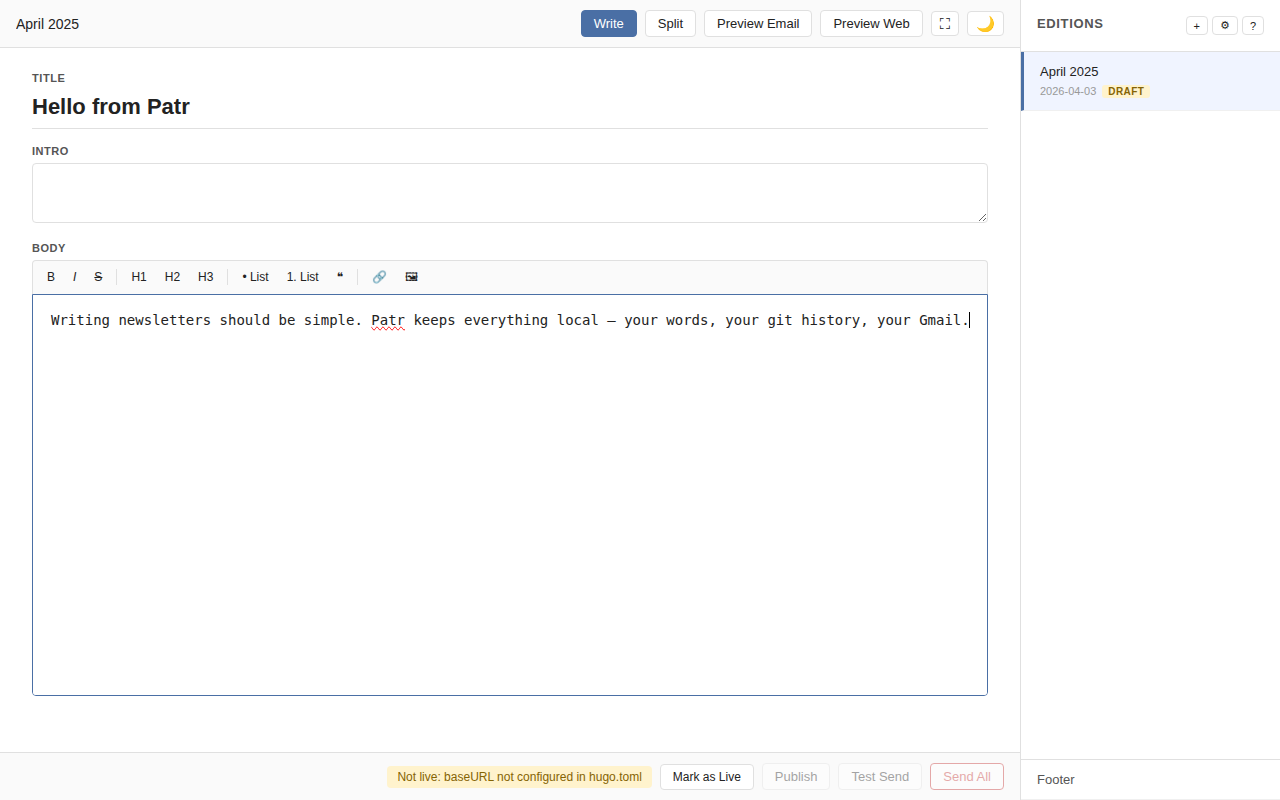
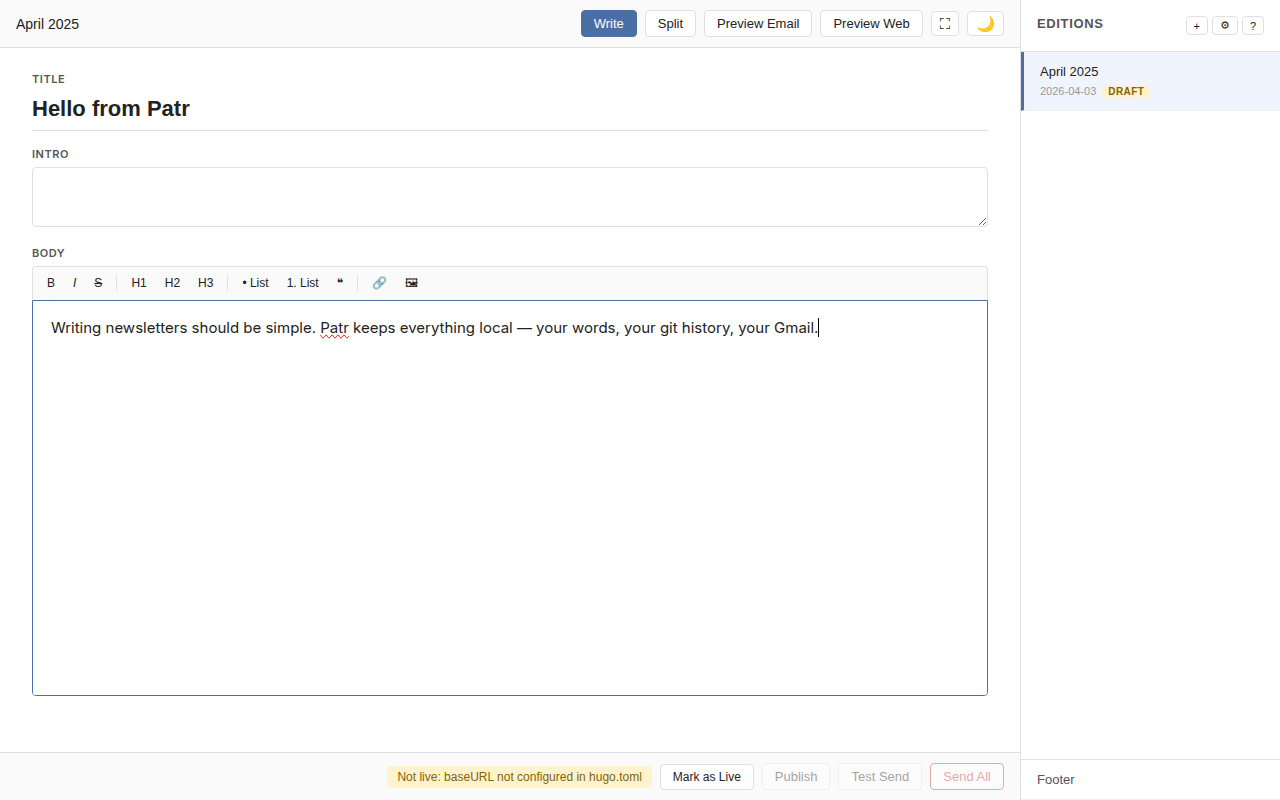
Use Inter font from Google Fonts for the editor

Changed region(s): [[0.0312, 0.2812, 0.75, 0.4375], [0.0312, 0.0938, 0.1562, 0.2188]]

diff --git a/src/patr/static/dist/main.css b/src/patr/static/dist/main.css
@@ -1,1 +1,1 @@
-*{box-sizing:border-box;margin:0;padding:0}:root{--bg:#f5f5f5;--surface:#fff;--border:#e0e0e0;--border-subtle:#f0f0f0;--text:#222;--text-secondary:#555;--text-muted:#999;--text-placeholder:#aaa;--toolbar-bg:#fafafa;--btn-bg:#fff;--btn-hover:#f0f0f0;--active-bg:#f0f4ff;--active-accent:#4a6fa5;--modal-overlay:#0006}body.dark{--bg:#1a1a1a;--surface:#242424;--border:#383838;--border-subtle:#2e2e2e;--text:#e8e8e8;--text-secondary:#aaa;--text-muted:#666;--text-placeholder:#555;--toolbar-bg:#1e1e1e;--btn-bg:#2e2e2e;--btn-hover:#383838;--active-bg:#1e2a3a;--active-accent:#6b93c9;--modal-overlay:#0009}body,#root{flex-direction:column;height:100vh;display:flex}body{background:var(--bg);color:var(--text);flex-direction:column;height:100vh;font-family:-apple-system,BlinkMacSystemFont,Segoe UI,sans-serif;font-size:14px;display:flex}.layout{flex:1;display:flex;overflow:hidden}.sidebar-resize-handle{cursor:col-resize;z-index:10;width:5px;position:absolute;top:0;bottom:0;left:0}.sidebar-resize-handle:hover,.sidebar-resize-handle:active{background:var(--border)}.sidebar{background:var(--surface);border-left:1px solid var(--border);flex-direction:column;order:1;width:260px;min-width:260px;display:flex;position:relative;overflow:hidden}.auth-bar{border-bottom:1px solid var(--border);align-items:center;gap:8px;padding:10px 16px;font-size:12px;display:flex}.auth-dot{border-radius:50%;flex-shrink:0;width:8px;height:8px}.auth-dot.ok{background:#4caf80}.auth-dot.err{background:#f08080}.auth-label{color:var(--text-secondary);flex:1}.sidebar-header{border-bottom:1px solid var(--border);color:var(--text-secondary);text-transform:uppercase;letter-spacing:.05em;padding:16px;font-size:13px;font-weight:600}.edition-list{flex:1;overflow-y:auto}.edition-item{cursor:pointer;border-bottom:1px solid #f0f0f0;flex-direction:column;gap:4px;padding:12px 16px;display:flex}.edition-item:hover{background:var(--btn-hover)}.edition-item.active{background:var(--active-bg);border-left:3px solid var(--active-accent)}.footer-item{border-top:1px solid var(--border);color:var(--text-secondary);margin-top:auto;font-size:13px}.edition-title{font-size:13px;font-weight:500;line-height:1.3}.edition-meta{color:var(--text-muted);align-items:center;gap:6px;font-size:11px;display:flex}.badge{text-transform:uppercase;letter-spacing:.04em;border-radius:3px;padding:1px 6px;font-size:10px;font-weight:600}.badge-draft{color:#856404;background:#fff3cd}.badge-live{color:#0a5c36;background:#d1e7dd}body.dark .badge-draft{color:#f0c040;background:#3a2e00}body.dark .badge-live{color:#4caf80;background:#0a2e1a}.main{background:var(--surface);flex-direction:column;flex:1;display:flex;overflow:hidden}.toolbar{border-bottom:1px solid var(--border);background:var(--toolbar-bg);flex-shrink:0;align-items:center;gap:8px;padding:10px 16px;display:flex}.toolbar-title{white-space:nowrap;text-overflow:ellipsis;color:var(--text);flex:1;font-size:14px;font-weight:500;overflow:hidden}.toolbar-title.empty{color:var(--text-placeholder);font-weight:400}.btn{border:1px solid var(--border);background:var(--btn-bg);color:var(--text);cursor:pointer;white-space:nowrap;border-radius:4px;padding:5px 12px;font-size:13px}.btn:hover:not(:disabled){background:var(--btn-hover)}.btn:disabled{opacity:.4;cursor:not-allowed}.btn-toggle.active{background:var(--active-accent);border-color:var(--active-accent);color:#fff}.btn-draft-toggle{font-size:12px}.btn-danger{color:#c53030;border-color:#c53030}.btn-danger:hover:not(:disabled){background:#fff5f5}body.dark .btn-danger:hover:not(:disabled){background:#2a0a0a}.btn-primary{background:var(--active-accent);border-color:var(--active-accent);color:#fff}.btn-primary:hover:not(:disabled){background:#3d5f8f}.preview-frame{background:#fff;border:none;flex:1}.content-area{flex:1;min-height:0;display:flex;overflow:hidden}.editor-pane{flex-direction:column;flex:1;display:flex;overflow:hidden}.editor-pane.bordered{border-right:1px solid var(--border)}.split-preview,.full-preview{flex-direction:column;flex:1;display:flex;overflow:hidden}.split-preview-bar{border-bottom:1px solid var(--border);background:var(--toolbar-bg);flex-shrink:0;align-items:center;gap:4px;padding:6px 10px;display:flex}.empty-state{color:var(--text-placeholder);flex:1;justify-content:center;align-items:center;font-size:15px;display:flex}.action-bar{border-top:1px solid var(--border);background:var(--toolbar-bg);flex-shrink:0;align-items:center;gap:8px;padding:10px 16px;display:flex}.action-bar .spacer{flex:1}.status-msg{border-radius:4px;padding:4px 10px;font-size:12px}.status-msg.ok{color:#0a5c36;background:#d1e7dd}.status-msg.warn{color:#856404;background:#fff3cd}.status-msg.err{color:#842029;background:#f8d7da}.status-msg.info{color:#1a3a6b;background:#e8f0fe}body.dark .status-msg.ok{color:#4caf80;background:#0a2e1a}body.dark .status-msg.warn{color:#f0c040;background:#3a2e00}body.dark .status-msg.err{color:#f08080;background:#2a0a0a}body.dark .status-msg.info{color:#80aaee;background:#0a1a3a}.modal-overlay{z-index:100;background:#0006;justify-content:center;align-items:center;display:none;position:fixed;inset:0}.modal-overlay.visible{display:flex}.modal{background:var(--surface);border-radius:8px;width:90%;max-width:380px;padding:28px;box-shadow:0 8px 32px #00000026}.modal h3{margin-bottom:10px;font-size:16px}.modal p{color:var(--text-secondary);margin-bottom:20px;font-size:13px;line-height:1.5}.modal-actions{justify-content:flex-end;gap:8px;display:flex}.btn-theme{border-radius:4px;padding:4px 8px;font-size:15px;line-height:1}.help-modal{flex-direction:column;width:95%;max-width:640px;max-height:80vh;padding:0;display:flex}.help-modal-header{border-bottom:1px solid var(--border);flex-shrink:0;justify-content:space-between;align-items:center;padding:16px 20px;display:flex}.help-modal-header h3{margin:0}.help-modal-body{color:var(--text);padding:20px 24px;font-size:13px;line-height:1.6;overflow-y:auto}.help-modal-body h2{margin:1.2em 0 .4em;font-size:15px}.help-modal-body h3{margin:1em 0 .3em;font-size:13px}.help-modal-body ul,.help-modal-body ol{margin:.4em 0;padding-left:1.4em}.help-modal-body li{margin:.2em 0}.help-modal-body p{margin:.5em 0}.help-modal-body code{background:var(--bg);border-radius:3px;padding:1px 4px;font-size:.9em}.help-modal-body pre{background:var(--bg);border-radius:4px;margin:.5em 0;padding:10px 12px;overflow-x:auto}.help-modal-body pre code{background:0 0;padding:0}.help-modal-body table{border-collapse:collapse;width:100%;margin:.5em 0}.help-modal-body th,.help-modal-body td{border:1px solid var(--border);text-align:left;padding:6px 10px;font-size:12px}.help-modal-body th{background:var(--toolbar-bg);font-weight:600}.help-modal-body blockquote{border-left:3px solid var(--border);color:var(--text-secondary);margin:.5em 0;padding-left:12px}.editor-panel{background:var(--surface);flex-direction:column;flex:1;gap:16px;padding:24px 32px;display:flex;overflow:hidden}.editor-field label{text-transform:uppercase;letter-spacing:.05em;color:var(--text-secondary);margin-bottom:6px;font-size:11px;font-weight:600;display:block}.editor-title-input{border:none;border-bottom:1px solid var(--border);width:100%;color:var(--text);box-sizing:border-box;background:0 0;outline:none;padding:4px 0 8px;font-size:22px;font-weight:600}.editor-title-input:focus{border-bottom-color:var(--active-accent)}.editor-intro-input{border:1px solid var(--border);width:100%;color:var(--text);resize:vertical;box-sizing:border-box;background:0 0;border-radius:4px;outline:none;min-height:60px;padding:8px;font-family:inherit;font-size:14px;font-style:italic;line-height:1.5}.editor-intro-input:focus{border-color:var(--active-accent)}.editor-toolbar{border:1px solid var(--border);background:var(--toolbar-bg);border-bottom:none;border-radius:4px 4px 0 0;flex-wrap:wrap;align-items:center;gap:2px;padding:4px 6px;display:flex}.editor-toolbar-btn{color:var(--text);cursor:pointer;background:0 0;border:1px solid #0000;border-radius:3px;padding:3px 7px;font-size:12px;font-weight:500;line-height:1.4}.editor-toolbar-btn:hover{background:var(--btn-hover);border-color:var(--border)}.editor-toolbar-sep{background:var(--border);flex-shrink:0;width:1px;height:16px;margin:0 4px}.editor-body-wrap{border:1px solid var(--border);border-radius:0 0 4px 4px;flex-direction:column;flex:1;display:flex;overflow-y:auto}.editor-body-wrap:focus-within{border-color:var(--active-accent)}.editor-body-wrap .cm-editor{height:100%;font-family:inherit;line-height:1.7}.editor-body-wrap .cm-editor.cm-focused{outline:none}.editor-body-wrap .cm-scroller{min-height:200px;padding:12px}.editor-body-wrap .cm-content{font-size:14px}.editor-save-status{color:var(--text-muted);text-align:right;opacity:0;min-height:16px;font-size:11px;transition:opacity .2s}.editor-save-status.visible{opacity:1}
+*{box-sizing:border-box;margin:0;padding:0}:root{--bg:#f5f5f5;--surface:#fff;--border:#e0e0e0;--border-subtle:#f0f0f0;--text:#222;--text-secondary:#555;--text-muted:#999;--text-placeholder:#aaa;--toolbar-bg:#fafafa;--btn-bg:#fff;--btn-hover:#f0f0f0;--active-bg:#f0f4ff;--active-accent:#4a6fa5;--modal-overlay:#0006}body.dark{--bg:#1a1a1a;--surface:#242424;--border:#383838;--border-subtle:#2e2e2e;--text:#e8e8e8;--text-secondary:#aaa;--text-muted:#666;--text-placeholder:#555;--toolbar-bg:#1e1e1e;--btn-bg:#2e2e2e;--btn-hover:#383838;--active-bg:#1e2a3a;--active-accent:#6b93c9;--modal-overlay:#0009}body,#root{flex-direction:column;height:100vh;display:flex}body{background:var(--bg);color:var(--text);flex-direction:column;height:100vh;font-family:-apple-system,BlinkMacSystemFont,Segoe UI,sans-serif;font-size:14px;display:flex}.layout{flex:1;display:flex;overflow:hidden}.sidebar-resize-handle{cursor:col-resize;z-index:10;width:5px;position:absolute;top:0;bottom:0;left:0}.sidebar-resize-handle:hover,.sidebar-resize-handle:active{background:var(--border)}.sidebar{background:var(--surface);border-left:1px solid var(--border);flex-direction:column;order:1;width:260px;min-width:260px;display:flex;position:relative;overflow:hidden}.auth-bar{border-bottom:1px solid var(--border);align-items:center;gap:8px;padding:10px 16px;font-size:12px;display:flex}.auth-dot{border-radius:50%;flex-shrink:0;width:8px;height:8px}.auth-dot.ok{background:#4caf80}.auth-dot.err{background:#f08080}.auth-label{color:var(--text-secondary);flex:1}.sidebar-header{border-bottom:1px solid var(--border);color:var(--text-secondary);text-transform:uppercase;letter-spacing:.05em;padding:16px;font-size:13px;font-weight:600}.edition-list{flex:1;overflow-y:auto}.edition-item{cursor:pointer;border-bottom:1px solid #f0f0f0;flex-direction:column;gap:4px;padding:12px 16px;display:flex}.edition-item:hover{background:var(--btn-hover)}.edition-item.active{background:var(--active-bg);border-left:3px solid var(--active-accent)}.footer-item{border-top:1px solid var(--border);color:var(--text-secondary);margin-top:auto;font-size:13px}.edition-title{font-size:13px;font-weight:500;line-height:1.3}.edition-meta{color:var(--text-muted);align-items:center;gap:6px;font-size:11px;display:flex}.badge{text-transform:uppercase;letter-spacing:.04em;border-radius:3px;padding:1px 6px;font-size:10px;font-weight:600}.badge-draft{color:#856404;background:#fff3cd}.badge-live{color:#0a5c36;background:#d1e7dd}body.dark .badge-draft{color:#f0c040;background:#3a2e00}body.dark .badge-live{color:#4caf80;background:#0a2e1a}.main{background:var(--surface);flex-direction:column;flex:1;display:flex;overflow:hidden}.toolbar{border-bottom:1px solid var(--border);background:var(--toolbar-bg);flex-shrink:0;align-items:center;gap:8px;padding:10px 16px;display:flex}.toolbar-title{white-space:nowrap;text-overflow:ellipsis;color:var(--text);flex:1;font-size:14px;font-weight:500;overflow:hidden}.toolbar-title.empty{color:var(--text-placeholder);font-weight:400}.btn{border:1px solid var(--border);background:var(--btn-bg);color:var(--text);cursor:pointer;white-space:nowrap;border-radius:4px;padding:5px 12px;font-size:13px}.btn:hover:not(:disabled){background:var(--btn-hover)}.btn:disabled{opacity:.4;cursor:not-allowed}.btn-toggle.active{background:var(--active-accent);border-color:var(--active-accent);color:#fff}.btn-draft-toggle{font-size:12px}.btn-danger{color:#c53030;border-color:#c53030}.btn-danger:hover:not(:disabled){background:#fff5f5}body.dark .btn-danger:hover:not(:disabled){background:#2a0a0a}.btn-primary{background:var(--active-accent);border-color:var(--active-accent);color:#fff}.btn-primary:hover:not(:disabled){background:#3d5f8f}.preview-frame{background:#fff;border:none;flex:1}.content-area{flex:1;min-height:0;display:flex;overflow:hidden}.editor-pane{flex-direction:column;flex:1;display:flex;overflow:hidden}.editor-pane.bordered{border-right:1px solid var(--border)}.split-preview,.full-preview{flex-direction:column;flex:1;display:flex;overflow:hidden}.split-preview-bar{border-bottom:1px solid var(--border);background:var(--toolbar-bg);flex-shrink:0;align-items:center;gap:4px;padding:6px 10px;display:flex}.empty-state{color:var(--text-placeholder);flex:1;justify-content:center;align-items:center;font-size:15px;display:flex}.action-bar{border-top:1px solid var(--border);background:var(--toolbar-bg);flex-shrink:0;align-items:center;gap:8px;padding:10px 16px;display:flex}.action-bar .spacer{flex:1}.status-msg{border-radius:4px;padding:4px 10px;font-size:12px}.status-msg.ok{color:#0a5c36;background:#d1e7dd}.status-msg.warn{color:#856404;background:#fff3cd}.status-msg.err{color:#842029;background:#f8d7da}.status-msg.info{color:#1a3a6b;background:#e8f0fe}body.dark .status-msg.ok{color:#4caf80;background:#0a2e1a}body.dark .status-msg.warn{color:#f0c040;background:#3a2e00}body.dark .status-msg.err{color:#f08080;background:#2a0a0a}body.dark .status-msg.info{color:#80aaee;background:#0a1a3a}.modal-overlay{z-index:100;background:#0006;justify-content:center;align-items:center;display:none;position:fixed;inset:0}.modal-overlay.visible{display:flex}.modal{background:var(--surface);border-radius:8px;width:90%;max-width:380px;padding:28px;box-shadow:0 8px 32px #00000026}.modal h3{margin-bottom:10px;font-size:16px}.modal p{color:var(--text-secondary);margin-bottom:20px;font-size:13px;line-height:1.5}.modal-actions{justify-content:flex-end;gap:8px;display:flex}.btn-theme{border-radius:4px;padding:4px 8px;font-size:15px;line-height:1}.help-modal{flex-direction:column;width:95%;max-width:640px;max-height:80vh;padding:0;display:flex}.help-modal-header{border-bottom:1px solid var(--border);flex-shrink:0;justify-content:space-between;align-items:center;padding:16px 20px;display:flex}.help-modal-header h3{margin:0}.help-modal-body{color:var(--text);padding:20px 24px;font-size:13px;line-height:1.6;overflow-y:auto}.help-modal-body h2{margin:1.2em 0 .4em;font-size:15px}.help-modal-body h3{margin:1em 0 .3em;font-size:13px}.help-modal-body ul,.help-modal-body ol{margin:.4em 0;padding-left:1.4em}.help-modal-body li{margin:.2em 0}.help-modal-body p{margin:.5em 0}.help-modal-body code{background:var(--bg);border-radius:3px;padding:1px 4px;font-size:.9em}.help-modal-body pre{background:var(--bg);border-radius:4px;margin:.5em 0;padding:10px 12px;overflow-x:auto}.help-modal-body pre code{background:0 0;padding:0}.help-modal-body table{border-collapse:collapse;width:100%;margin:.5em 0}.help-modal-body th,.help-modal-body td{border:1px solid var(--border);text-align:left;padding:6px 10px;font-size:12px}.help-modal-body th{background:var(--toolbar-bg);font-weight:600}.help-modal-body blockquote{border-left:3px solid var(--border);color:var(--text-secondary);margin:.5em 0;padding-left:12px}.editor-panel{background:var(--surface);flex-direction:column;flex:1;gap:16px;padding:24px 32px;font-family:Inter,system-ui,sans-serif;display:flex;overflow:hidden}.editor-field label{text-transform:uppercase;letter-spacing:.05em;color:var(--text-secondary);margin-bottom:6px;font-size:11px;font-weight:600;display:block}.editor-title-input{border:none;border-bottom:1px solid var(--border);width:100%;color:var(--text);box-sizing:border-box;background:0 0;outline:none;padding:4px 0 8px;font-size:22px;font-weight:600}.editor-title-input:focus{border-bottom-color:var(--active-accent)}.editor-intro-input{border:1px solid var(--border);width:100%;color:var(--text);resize:vertical;box-sizing:border-box;background:0 0;border-radius:4px;outline:none;min-height:60px;padding:8px;font-family:inherit;font-size:14px;font-style:italic;line-height:1.5}.editor-intro-input:focus{border-color:var(--active-accent)}.editor-toolbar{border:1px solid var(--border);background:var(--toolbar-bg);border-bottom:none;border-radius:4px 4px 0 0;flex-wrap:wrap;align-items:center;gap:2px;padding:4px 6px;display:flex}.editor-toolbar-btn{color:var(--text);cursor:pointer;background:0 0;border:1px solid #0000;border-radius:3px;padding:3px 7px;font-size:12px;font-weight:500;line-height:1.4}.editor-toolbar-btn:hover{background:var(--btn-hover);border-color:var(--border)}.editor-toolbar-sep{background:var(--border);flex-shrink:0;width:1px;height:16px;margin:0 4px}.editor-body-wrap{border:1px solid var(--border);border-radius:0 0 4px 4px;flex-direction:column;flex:1;display:flex;overflow-y:auto}.editor-body-wrap:focus-within{border-color:var(--active-accent)}.editor-body-wrap .cm-editor{height:100%;font-family:inherit;line-height:1.7}.editor-body-wrap .cm-editor.cm-focused{outline:none}.editor-body-wrap .cm-scroller{min-height:200px;padding:12px}.editor-body-wrap .cm-content{font-family:Inter,system-ui,sans-serif;font-size:15px}.editor-save-status{color:var(--text-muted);text-align:right;opacity:0;min-height:16px;font-size:11px;transition:opacity .2s}.editor-save-status.visible{opacity:1}

diff --git a/src/patr/templates/index.html b/src/patr/templates/index.html
@@ -3,6 +3,9 @@
 <head>
 <meta charset="utf-8">
 <title>{{ title }}</title>
+<link rel="preconnect" href="https://fonts.googleapis.com">
+<link rel="preconnect" href="https://fonts.gstatic.com" crossorigin>
+<link rel="stylesheet" href="https://fonts.googleapis.com/css2?family=Inter:wght@400;500;600&display=swap">
 <link rel="stylesheet" href="/static/dist/main.css">
 </head>
 <body data-unconfigured="{{ 'true' if unconfigured else '' }}">

diff --git a/src/patr/static/editor.css b/src/patr/static/editor.css
@@ -1,4 +1,5 @@
 .editor-panel {
+  font-family: 'Inter', system-ui, sans-serif;
   display: flex;
   flex-direction: column;
   flex: 1;
@@ -122,7 +123,8 @@
 }
 
 .editor-body-wrap .cm-content {
-  font-size: 14px;
+  font-size: 15px;
+  font-family: 'Inter', system-ui, sans-serif;
 }
 
 .editor-save-status {
